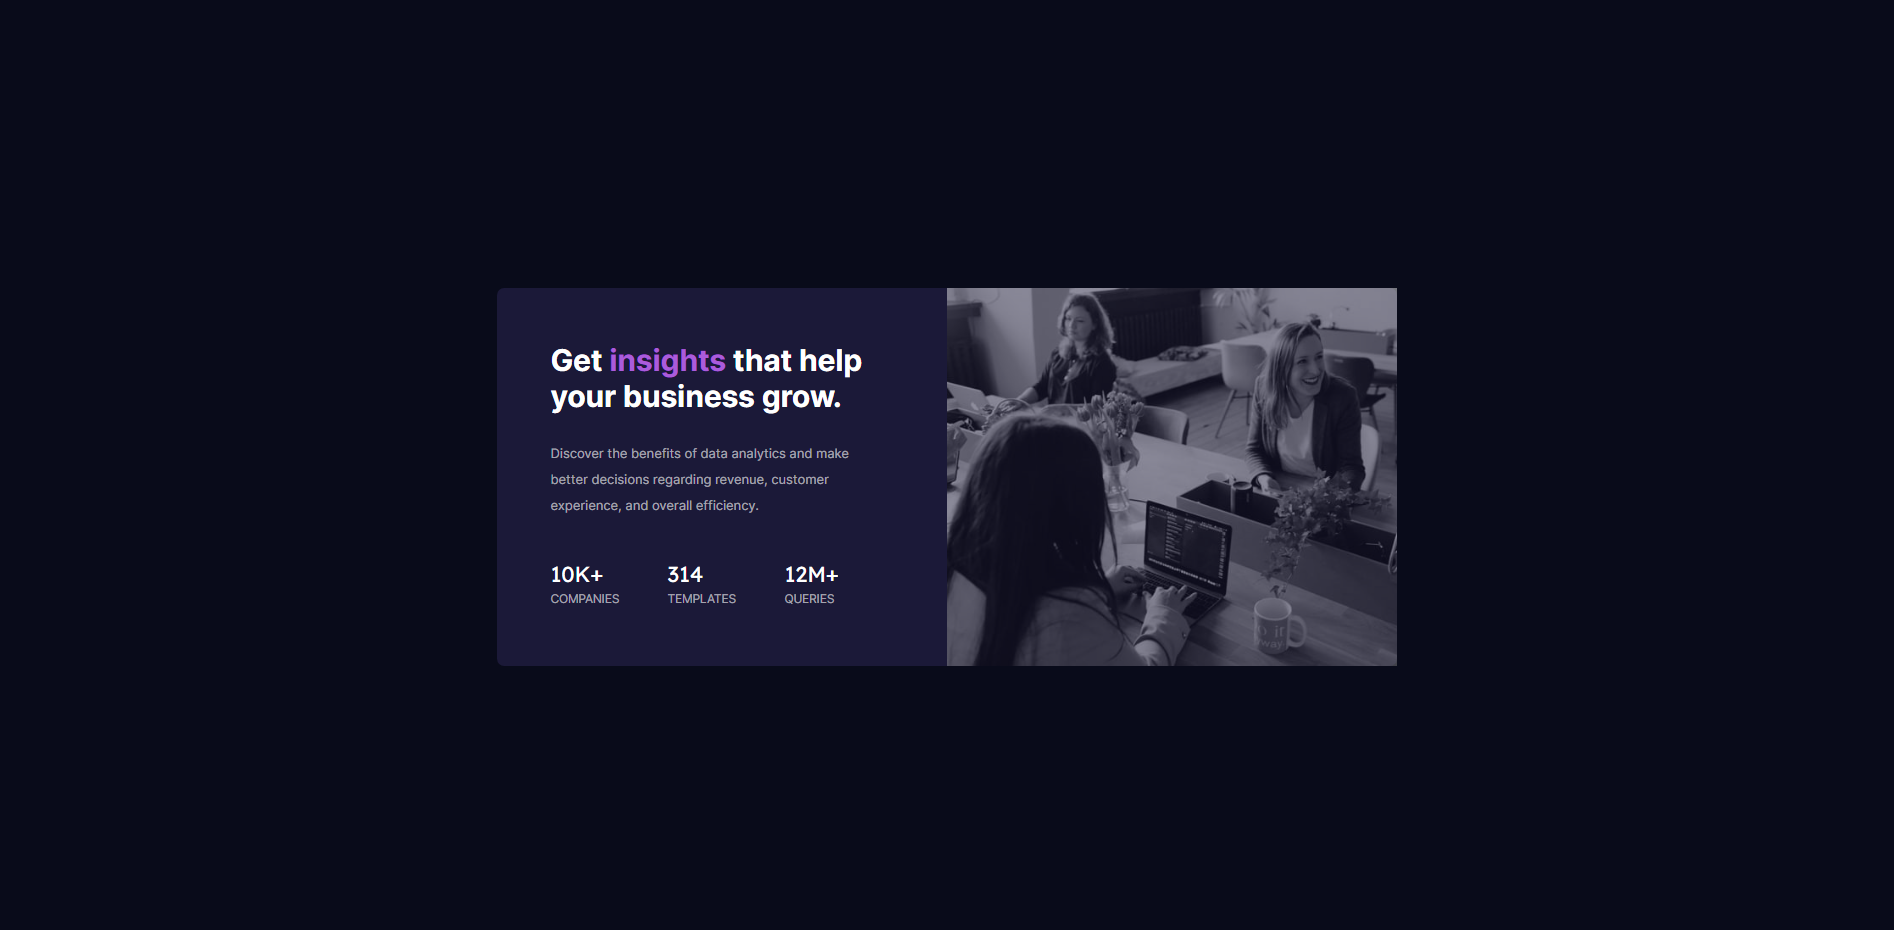
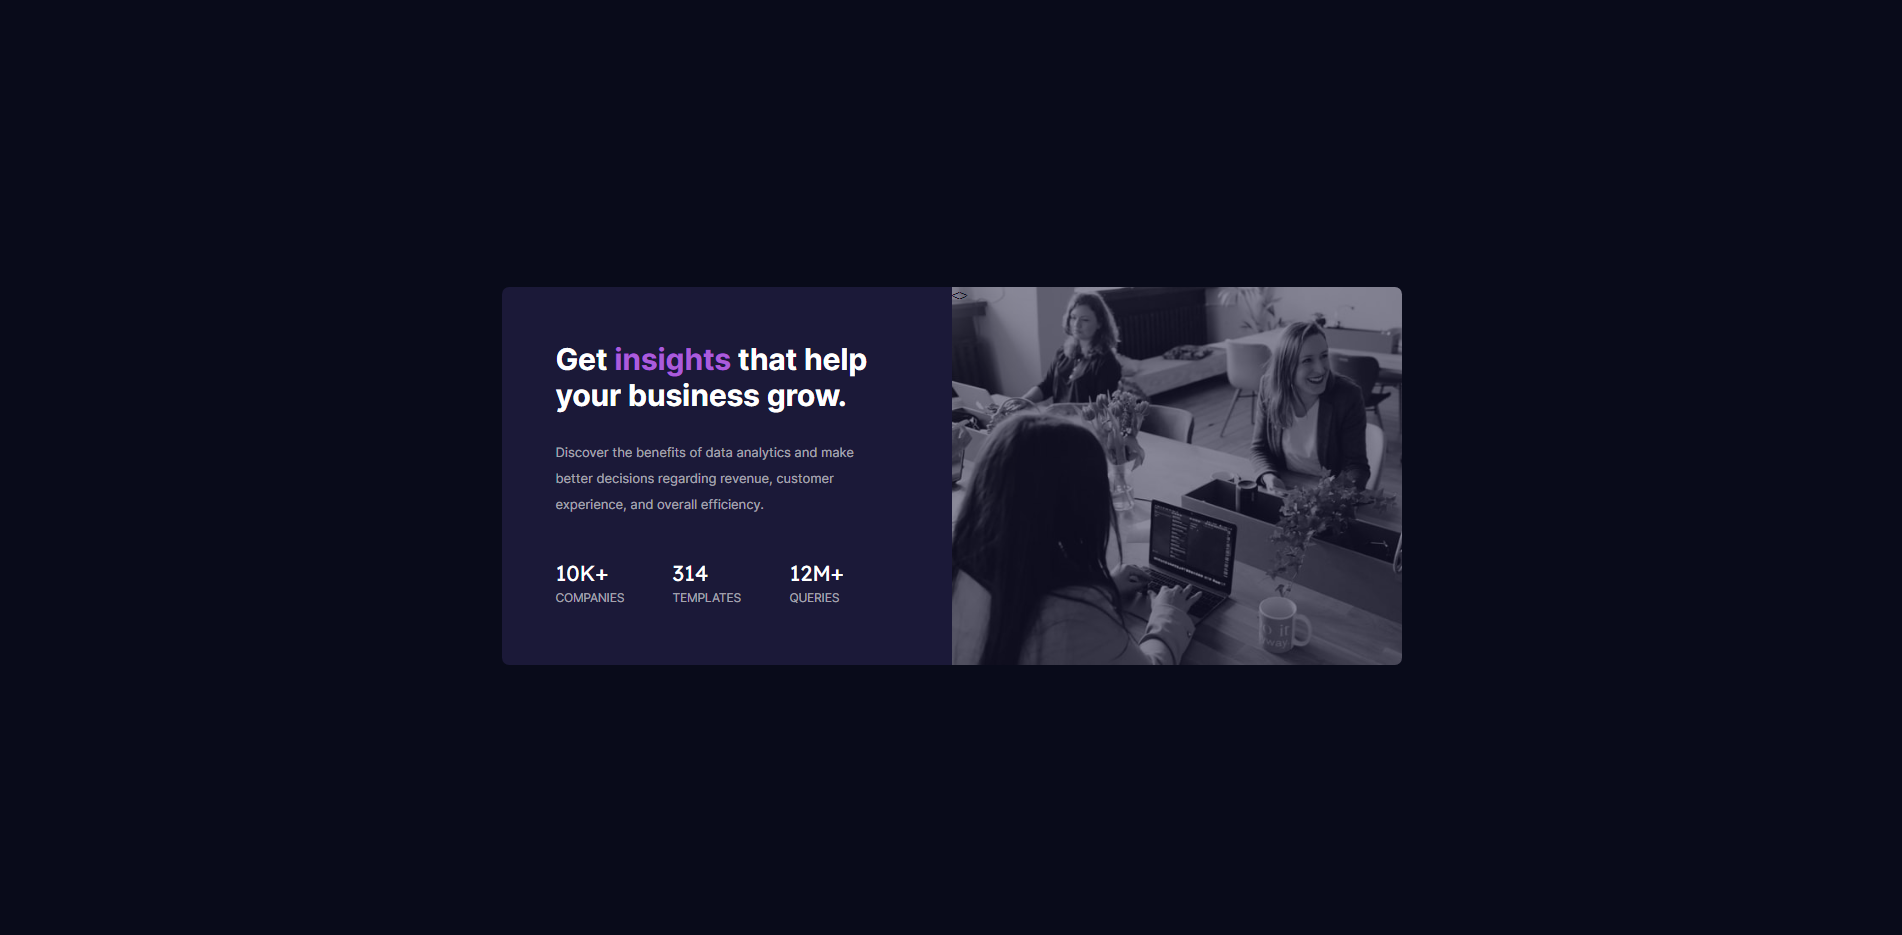
commit

diff --git a/style.css b/style.css
@@ -77,9 +77,14 @@ body {
 .right{
     width: 50%;
     display: flex;
-    background-image: url(images/image-header-desktop.jpg);
+    background-image: url(/images/image-header-desktop.jpg);
     height: 420px;
     background-size: cover;
+    background-color: var(--Dark-desaturated-blue);
+    height: 100%;
+    opacity: 0.5;
+    border-top-right-radius: 8px;
+    border-bottom-right-radius: 8px;
 
 }
 @media (max-width: 883px) {
@@ -115,7 +120,7 @@ body {
     .right{
         width: 100%;
         height: 200px;
-        background-image: url(/images/image-header-desktop.jpg);
+        background-image: url(/images/image-header-mobile.jpg);
         background-size: cover;
         border-top-left-radius: 8px;
         border-top-right-radius: 8px;

diff --git a/index.html b/index.html
@@ -24,7 +24,7 @@
       </div>
     </div>
     <div class="right">
-      <div class="image" alt="image"></div>
+      <<div class="image" alt="image"></div>>
     </div>
   </main>
 </body>
